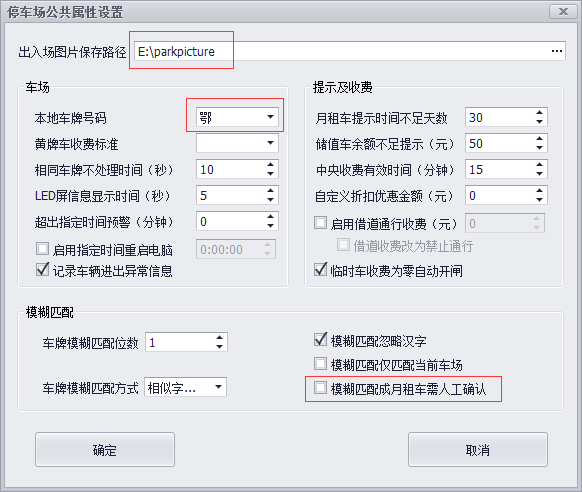
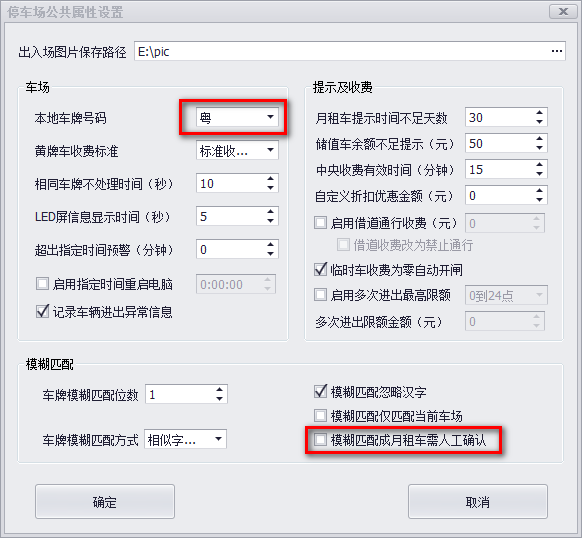
07261

diff --git a/车牌识别管理软件快速操作手册/车牌识别管理软件快速操作手册.html b/车牌识别管理软件快速操作手册/车牌识别管理软件快速操作手册.html
@@ -1,10 +1,11 @@
-<!DOCTYPE html>
+<!--最后更新时间:2017年7月26日 13:59:10-->
+<!DOCTYPE html>
 <html lang="en">
 <head>
     <meta charset="UTF-8">
-    <meta http-equiv="pragma" content="no-cache" />
-    <meta http-equiv="cache-control" content="no-cache" />
-    <meta http-equiv="expires" content="0" />
+    <meta http-equiv="pragma" content="no-cache"/>
+    <meta http-equiv="cache-control" content="no-cache"/>
+    <meta http-equiv="expires" content="0"/>
     <title>车牌识别管理软件快速操作手册</title>
     <link href="../css/css/font-awesome.css" rel="stylesheet" media="screen">
     <link rel='stylesheet' id='jquery-gif-css' href='../css/jquery.gif.css' type='text/css' media='all'/>
@@ -39,7 +40,7 @@
         }
 
         h5 {
-            font-size: 14px;
+            font-size: 16px;
             font-weight: bold;
         }
 
@@ -60,26 +61,22 @@
 </head>
 <body>
 <h1 align="center">车牌识别管理软件快速操作手册</h1>
+软件操作详细信息,请参考<a href="../车牌识别系统软件说明书/车牌识别系统软件说明书.html" target="_blank">"车牌识别系统管理软件说明书"</a>.
 <h3>1.选择数据库类型</h3>
     <pre>
-    软件支持MSSQL2008和MySql数据库引擎.
-    使用MSSQL2008数据库引擎的,需要额外安装微软MSSQL2008数据库;
+    本软件同时支持MSSQL2008和MySql数据库引擎.
+    使用MSSQL2008数据库引擎的,需要额外安装微软MSSQL2008数据库程序,程序文件大小大约4G左右;
     使用MySql的,无需单独安装此数据库,本软件已集成.
-    目前用MySql数据库的系统不能扩展云管理功能,所以若考虑以后要升级使用云管理功能的,请选择
+    注意:目前用MySql数据库的系统不能扩展云管理功能,所以若考虑以后要升级使用云管理功能的,请选择
 MSSQL2008数据库.    
-    数据库类型设置方法:
-    打开软件根目录,找到"Config"文件夹,在此文件夹下找到"ExtendConfig"文件,然后用记事本打开此文件.
-    找到下图所示的行.
-    <img dataOrigin="img/数据库类型设置.png" alt="">
-    设置"SqlType value"值为"0"表示软件使用MSSQL2008数据库存储数据;
-    设置"SqlType value"值为"1"表示软件使用MySql数据库存储数据;    </pre>
+     请根据应用需求,到<a href="http://www.it-wy.cn/download" target="_blank">技术资料下载</a>网站下载合适的软件版本.
+    <img dataOrigin="img/软件版本.png"></pre>
 <h3>2.创建数据库文件</h3>
     <pre>
     <span class="redBig">以下若无特殊说明,均是在安装了数据库的电脑上操作.</span>
-    若想获取软件操作详细信息,请参考<a href="../车牌识别系统软件说明书/车牌识别系统软件说明书.html" target="_blank">"车牌识别系统管理软件说明书"</a>.
     在车牌识别管理软件根目录里找到"CreateDatabase.exe"<img style="display: inline;" dataOrigin="img/CreateDatabase.png"> ,双击打开.
     <img dataOrigin="img/CreateDatabase目录结构.png">
-    根据所使用的数据库类型不同,数据库文件创建方式有不同.
+    根据所使用的数据库类型不同,数据库文件创建方式略有不同.
 
     <span style="background-color: blue;color:white;">创建MSSQL2008数据库文件</span>
     <img dataOrigin="img/创建数据库.png">
@@ -88,13 +85,15 @@ MSSQL2008数据库.
     a.点击"创建数据库",正常情况下会提示创建成功;
     b.点击"测试数据库连接",正常情况下会提示连接成功;
     c.点击"保存连接字符串",正常情况下会提示保存成功.
+    注意:服务器名称和数据库密码是安装MSSQL2008时指定的,他人不会知道.
 
     <span style="background-color: blue;color:white;">创建MySql数据库文件</span>
     <img dataOrigin="img/创建数据库-MySql.png">
     创建数据库步骤如下:
     a.服务器名称:输入本机IP.
     b.点击"创建数据库",正常情况下会在本机创建停车场使用的数据库文件;
-    c.点击"连接测试",测试服务器名称指定的主机上数据库文件是否存在;
+    c.点击"连接测试",测试服务器名称指定的主机上数据库文件是否存在
+    (一般用于未装数据库的电脑测试指定电脑上数据库是否能正常连接);
     d.点击"保存连接字符串",正常情况下会提示保存成功.   
 </pre>
 <h3>3.配置软件运行数据</h3>
@@ -102,26 +101,29 @@ MSSQL2008数据库.
 <pre>
     在管理软件根目录,找到"ParkUI.exe"<img style="display: inline;" dataOrigin="img/ParkUI图标.png"> ,并右键发送快捷方式到桌面.
     <img dataOrigin="img/发送到桌面.png">
-    打开管理软件,直接登录,没有密码.
+    打开管理软件,直接登录,初始是没有密码的.
     <img dataOrigin="img/登录.png">
 </pre>
 <h4>(2)车场公共属性配置 <img style="display: inline;" dataOrigin="img/公共属性配置图标.png"></h4>
 <pre>
     <img dataOrigin="img/公共属性设置.png">
-    图片保存路径:该路径所在的文件夹会保存车辆进出识别的抓拍图片.
-        单机管理的停车场此处设置成本地路径即可,多机管理的需要设置成网络路径.
+    图片保存路径:该路径会保存车辆进出识别的抓拍图片,默认是保存在软件根目录的Image文件夹里.
+    <img dataOrigin="img/image文件夹.png">
+    单机管理的停车场此处设置成本地路径即可,多机管理的需要设置成网络路径,如:\\192.168.0.18\pic.
     本地车牌号码:根据所在省份修改;
-    模糊匹配成月租车需人工确认:相似车牌匹配会弹出确认窗口,该选项根据收费员水平合理选择开启.
-    其它参数如无特殊需求可按上图设置.
+    模糊匹配成月租车需人工确认:相似车牌匹配会弹出确认窗口,该选项根据收费员素质水平合理选择开启.
+    其它参数如无特殊需求默认即可.
 </pre>
 <h4>(3)数据库配置 <img style="display: inline;" dataOrigin="img/数据库配置.png"></h4>
 <pre>
     <img dataOrigin="img/数据库定时备份设置.png" alt="">
     建议按上图设置,这样软件会每天凌晨1点定时备份数据库.
+    备份路径默认是保存在软件根目录的backup文件夹里.
+    <img dataOrigin="img/backup文件夹.png">
 </pre>
 <h4>(3)报表配置 <img style="display: inline;" dataOrigin="img/报表配置图标.png"></h4>
 <pre>
-    报表配置根据电脑硬盘容量和甲方想回看的时间限制合理设置.
+    报表配置根据电脑硬盘容量和想查询的时间合理设置.
     建议:在场车辆记录表的数据保留天数设置一个值,如10天,则软件会自动清理10天前进场的车辆.
     <img dataOrigin="img/在场车辆记录表.png">
 </pre>
@@ -131,40 +133,58 @@ MSSQL2008数据库.
     <img dataOrigin="img/临时车收费标准.png">
     例:上图表示停1个小时收1元钱,停2小时收2元钱...;可免费停30分钟;停车时间满24小时收20元,相当于优惠了4元.
     
-    <span style="background-color: blue;color:white;">测试收费标准</span> <img style="display: inline;" dataOrigin="img/测试收费标准图标.png">
+    <span style="background-color: blue;color:white;">测试收费标准</span> <img style="display: inline;"
+                                                                         dataOrigin="img/测试收费标准图标.png">
     测试收费标准设置的是否正确.
     <img dataOrigin="img/测试收费标准.png">
 </pre>
 <h4>(5)车场设置 <img style="display: inline;" dataOrigin="img/车场设置.png"></h4>
 <pre>
     <img dataOrigin="img/车场设置窗口.png" alt="">
-    总车位数尽量设置大一点,因为很可能由于停车场设备出现故障导致场内车辆没有识别即放出场,从而使场内可
+    总车位数尽量设置大一点,因为很可能由于各种故障导致场内车辆没有识别即被人为放出场,从而使场内可
 用车位数少于实际可用。
     月租车位数=总车位数-临时车位,上图所示月租车位数为200.
-    内部停车场:大车场嵌套小车场的,软件里设置小车场时,需勾上此选项.
+    屏幕首行显示内容:设置LED显示屏上首行的信息内容.
+    内部停车场:被大车场嵌套的小车场,如地库车场,需勾上此选项.
         被定义为内部停车场的车场,车辆可循环进出该车场,只要没有从大车场出去.
+    其它参数如无特殊需求默认即可.
 </pre>
 <h4>(6)车道设置 <img style="display: inline;" dataOrigin="img/车道设置.png"></h4>
 <pre>
     根据现场出入口情况增加车道信息.
+     <span style="background-color: blue;color:white;">搜索摄像机</span>
+    集成了摄像机的调试方法,如修改相机IP,绘制识别区和虚拟线圈,相机授权延期等.
+    快速操作方法如下:
+    <img width="100%" class="gif" dataOrigin="img/搜索摄像机.png" data-gif="img/搜索摄像机.gif">
     <img dataOrigin="img/道口管理.png">
     上图红色框选的参数,根据车道情况灵活调整.
     终端IP:填写管理本车道摄像机的电脑IP地址.
-        如上图表示IP是192.168.0.39的摄像机被192.168.0.18这台电脑监控,即只有这个电脑才能看到此
-    摄像机的监控图像.
+        如上图表示IP是192.168.1.101的摄像机被192.168.0.18这台电脑管理.
+    语音输出道口:默认即可,不用修改.
+    是否读取脱机记录:脱机收费相机使用,一般情况下不用勾选.
+    是否读卡:非机动车道刷IC卡通行使用,一般情况下不用勾选.
+    其它参数如无特殊需求默认即可.
 </pre>
 <h4>(7)操作员管理 <img style="display: inline;" dataOrigin="img/操作员管理图标.png"></h4>
 <pre>
+    <span style="background-color: blue;color:white;">角色管理</span>
+    <img dataOrigin="img/角色权限.png">
+    建议如上图设置"收费员"角色的权限,其中"手动开匣"一项,可根据实际情况选择.
+
     <img dataOrigin="img/操作员管理.png">
     所属角色:角色定义了该类操作员操作软件的权限,请合理选择所属角色.
 </pre>
 <h4>(8)用户和车辆管理</h4>
 <h5>a.新增用户和车辆</h5>
 <pre>
-    <span class="redBig">想在软件登记车辆信息时,必须先将该车的车主信息录入,之后再绑定车辆信息.</span>
+    <span style="background-color: blue;color:white;">方法一</span>
+    先录车主信息,再绑定车辆信息.
     新增用户和车辆信息流程如下:
     <img width="100%" class="gif" dataOrigin="img/录入用户和车辆信息.png" data-gif="img/录入用户和车辆信息.gif">
     注意到期时间和道口权限.
+    <span style="background-color: blue;color:white;">方法二</span>
+    快速录入车主信息和车辆信息,流程如下:
+     <img width="100%" class="gif" dataOrigin="img/快速录入车辆.png" data-gif="img/快速录入车辆.gif">
 </pre>
 <h5>b.查询用户和车辆</h5>
 <pre>
@@ -177,12 +197,19 @@ MSSQL2008数据库.
 </pre>
 <h5>c.车辆充值延期</h5>
 <pre>
-    本功能是用来为车辆延期,如下图所示.
-    <img width="100%" class="gif" dataOrigin="img/车辆充值延期.png" data-gif="img/车辆充值延期.gif">
+    延期操作在车辆管理界面里进行比较方便.
+    单个车辆延期:
+    <img dataOrigin="img/车辆充值延期流程.png">
+
+    多车批量延期:
+    鼠标点击车辆信息的同时,按住键盘的Ctrl或Shift键可以多选.
+    批量延期时,充值单位只能是月或年,不能指定具体的某一天.
+    <img width="100%" class="gif" dataOrigin="img/批量延期.png" data-gif="img/批量延期.gif">
 </pre>
 <h3>4.设置共享参数</h3>
 <pre>
-    参数<a href="../车牌识别共享操作集中说明/车牌识别共享操作集中说明.html" target="_blank">"车牌识别共享操作集中说明"</a>完成软件的一些共享设置.
+    多台电脑管理的停车场需要设置加密狗,识别图片,数据库的共享.
+    参考<a href="../车牌识别共享操作集中说明/车牌识别共享操作集中说明.html" target="_blank">"车牌识别共享操作集中说明"</a>完成软件的一些共享设置.
 </pre>
 <h3>5.实时监控</h3>
 <pre>
@@ -192,7 +219,7 @@ MSSQL2008数据库.
 <h3>6.进出记录和收费报表查询</h3>
 <h4>6.1 车辆进出记录表</h4>
 <pre>
-    从数据库查询车辆进出详细记录.
+    查询车辆进出的详细记录.
 </pre>
 <h5>(1)查询方法介绍-工具栏</h5>
 <pre>
@@ -211,10 +238,10 @@ MSSQL2008数据库.
     通过首行栏查询时,请将工具栏的所有勾选项都勾上,否则本查询结果是以工具栏查询的结果为基础进行的二次查询.
     <img dataOrigin="img/进出记录表-工具栏.png" width="100%">
     记录列表的首行是查询条件输入栏,支持精细和模糊查询,下面以图示的方式展现查询功能.
-    <img dataOrigin="img/进出记录查询-车牌号.png" width="100%"><p class="explain">车牌号查询,首行输入'k78'进行模糊查询,查询结果只包含车牌号含'k78'的车辆进出记录</p>
+    <img dataOrigin="img/进出记录查询-车牌号.png" width="100%"><p class="explain">
+    车牌号查询,首行输入'k78'进行模糊查询,查询结果只包含车牌号含'k78'的车辆进出记录</p>
     <img dataOrigin="img/进出记录查询-用户名.png"><p class="explain">用户名查询,首行输入'优'进行模糊查询,查询结果只包含用户名含'优'的进出记录</p>
     其它列类似,只需在首行输入条件即可自动筛选符合的记录.
-
     <span class="redBig">以上介绍的两种查询方法适用本软件所有报表,故以下报表不再赘述。</span>
 </pre>
 <h5>(3)查看车辆抓拍图片</h5>
@@ -222,15 +249,13 @@ MSSQL2008数据库.
     双击指定的进出记录,会弹出该车辆抓拍的图片,如下图:
     <img class="gif" width="100%" dataOrigin="img/进出记录抓拍图片.png" data-gif="img/进出记录抓拍图片.gif">
     在图片上右键可以选择另存图片.
-
     <span class="redBig">以下报表可查询图片的方法类似,故不再赘述。</span>
 </pre>
 <h5>(4)导出到Excel和打印</h5>
 <pre>
     导出到Excel:将查询的结果保存到Excel表格中;
     打印:调用本地打印机打印查询结果.
-    <span class="redBig">打印小票或者特殊打印要求的,需定制开发.</span>
-
+    <span class="redBig">打印小票或者特殊打印要求的,需联系厂商工程人员.</span>
     <span class="redBig">以下报表本功能类似,故不再赘述。</span>
 </pre>
 <a name="sfmxjlb"></a>
@@ -256,6 +281,5 @@ MSSQL2008数据库.
     所有进场时间的开始时间设置为查询的起始时间,即2016年10月1日,截止时间默认不改.
     所有出场时间的开始时间设置为查询的起始时间,即2016年10月1日;截止时间为查询的截止时间,即2016年12月12日.
 </pre>
-
 </body>
 </html>

diff --git a/车牌识别共享操作集中说明/车牌识别共享操作集中说明.html b/车牌识别共享操作集中说明/车牌识别共享操作集中说明.html
@@ -2,13 +2,13 @@
 <html lang="en">
 <head>
     <meta charset="UTF-8">
-    <meta http-equiv="pragma" content="no-cache" />
-    <meta http-equiv="cache-control" content="no-cache" />
-    <meta http-equiv="expires" content="0" />
+    <meta http-equiv="pragma" content="no-cache"/>
+    <meta http-equiv="cache-control" content="no-cache"/>
+    <meta http-equiv="expires" content="0"/>
     <title>车牌识别共享操作集中说明</title>
     <script src="../js/jquery-2.1.1.min.js"></script>
     <script src="../js/jquery.gif.js"></script>
-    <script src="../js/imgload_gifload.js"></script>    
+    <script src="../js/imgload_gifload.js"></script>
     <style>
         body {
             width: 800px;
@@ -66,9 +66,8 @@
     多终端管理型停车场,即两台及上电脑管理的停车场,就需要配置加密狗和数据库共享.
     <span style="color: blue;">单机管理型停车场,无需做共享操作.</span>
 
-    原理:整个停车场只需要安装1个数据库和使用1个加密狗.
-    假如在A电脑上安装了数据库和插入加密狗,按照本说明完成共享设置,之后其它电脑就可以共享A电脑上的数据
-库和加密狗,实现车辆从任何一个道口出去都能计算收费和查看图片.
+    整个停车场只需要安装1个数据库和使用1个加密狗.
+    假如在A电脑上安装了数据库和插入加密狗,按照本说明完成共享设置,之后其它电脑就可以共享A电脑上的数据库和加密狗,实现车辆从任何一个道口出去都能计算收费和查看图片.
      <span style="color: blue;">注：本文只介绍软件层面上的共享操作,需要物理上网络互访支持.如果网络都不通,就谈不上共享了.</span>
     <em style="color:white;font-weight: bold;font-size: 20px;background-color: #FF0000;">在进行操作前一定要关闭防火墙.</em>
 </pre>
@@ -120,15 +119,14 @@
     按 <img style="display:inline;border: 0px;margin-bottom: -6px;" dataOrigin="img/win键.png"> + R键,输入如下命令.
     <img dataOrigin="img/运行窗口.png">
     找到"ParkingService",查看启动类型和服务状态是否如下图所示.
-    <img  dataOrigin="img/PS的属性.png">
+    <img dataOrigin="img/PS的属性.png">
     切换到"恢复"选项卡,将下列选项设置成"重新启动服务".
     <img dataOrigin="img/恢复选项卡.png">
 </pre>
 <a name="5"></a>
 <h3>5.加密狗共享设置</h3>
 <pre>
-    在软件根目录找到"Confing"文件夹,打开"Confing Setting",更改"加密狗所在IP地址"这一项,在这里输入插
-加密狗电脑的IP地址,点击保存退出.
+    在软件根目录找到"Confing"文件夹,打开"Confing Setting",更改"加密狗所在IP地址"这一项,在这里输入插加密狗电脑的IP地址,点击保存退出.
     <img dataOrigin="img/加密狗所在IP.png">
 </pre>
 <a name="6"></a>
@@ -137,8 +135,7 @@
     在软件根目录找到"ParkUI"并打开它.
     <img dataOrigin="img/ParkUI目录.png">
     首次开软件时会提示找不到数据库,点击"yes",设置连接参数.
-    服务器名称填SQL数据库所在电脑的IP地址,密码填安装数据库时设置的密码,点击连接测试,成功连接数据库之
-后保存并退出.
+    服务器名称填SQL数据库所在电脑的IP地址,密码填安装数据库时设置的密码,点击连接测试,成功连接数据库之后保存并退出.
     <img dataOrigin="img/数据库连接配置.png">
 </pre>
 </body>

diff --git a/脱机收费操作说明/脱机收费操作说明.html b/脱机收费操作说明/脱机收费操作说明.html
@@ -1,4 +1,5 @@
-<!DOCTYPE html>
+<!--最后更新时间:2017年7月26日 14:04:08-->
+<!DOCTYPE html>
 <html lang="en">
 <head>
     <meta charset="UTF-8">
@@ -52,7 +53,7 @@
 <pre>
     用浏览器登入摄像机,用户名和密码默认:admin,然后如下图设置.
     <img dataOrigin="img/关闭白名单.png">
-    <span class="redBig">注:纯脱机收费的应用场合,内部车牌数据请通过白名单导入工具添加.</span>
+    <span class="redBig">注:纯脱机收费的应用场合,内部车牌数据请通过<a href="http://it-wy.cn/download/tool/一体机配置工具1.0.15.2.rar">白名单导入工具</a>添加.</span>
     <span class="redBig">注:内部车牌到期时间不要大于2037年,建议最大设到2030年即可.</span>
 </pre>
 <h2 style="color: red;">2.出入口配置组网</h2>

diff --git a/index.html b/index.html
@@ -58,7 +58,7 @@
                                 <a class="vip" href="./sixStep/sixStep.html">调试流程六步走 </a>
                             </li>
                             <li>
-                                <a class="vip" href="http://pan.baidu.com/s/1gfvHf2N">64位的gohst win7镜像(要下载一键ghost工具) </a>
+                                <a class="vip" href="http://pan.baidu.com/s/1gfvHf2N">64位的ghost win7镜像(要下载一键ghost工具) </a>
                             </li>
                         </ol>
                     </li>

diff --git a/css/index.css b/css/index.css
@@ -103,8 +103,8 @@ ol ol li:hover {
 }
 
 #menu_container ol li a.vip {
-    // background-color: #ccc;
-    // color: red;
+    /*// background-color: #ccc;*/
+     color: red;
 }
 
 html>body ol {
